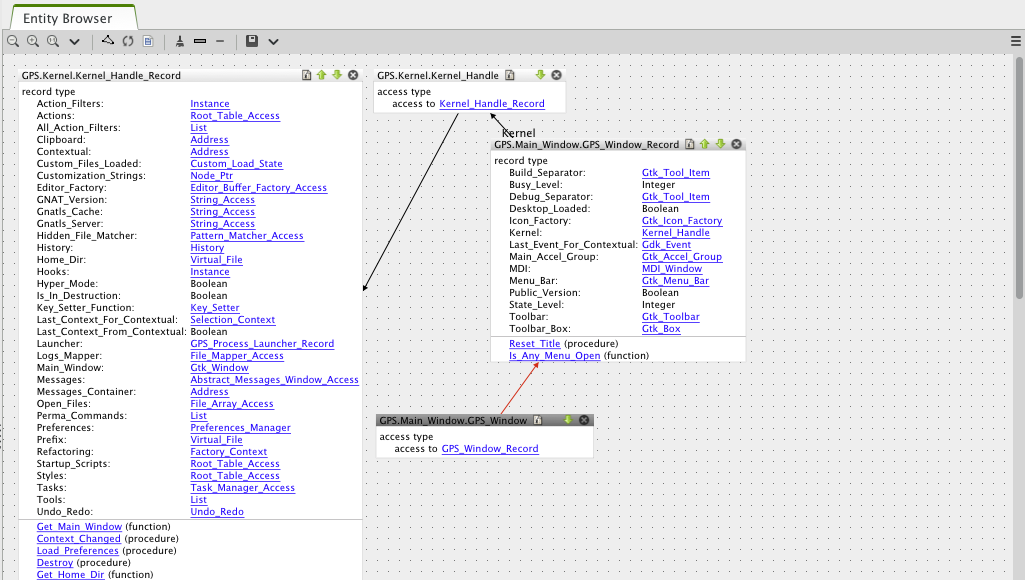
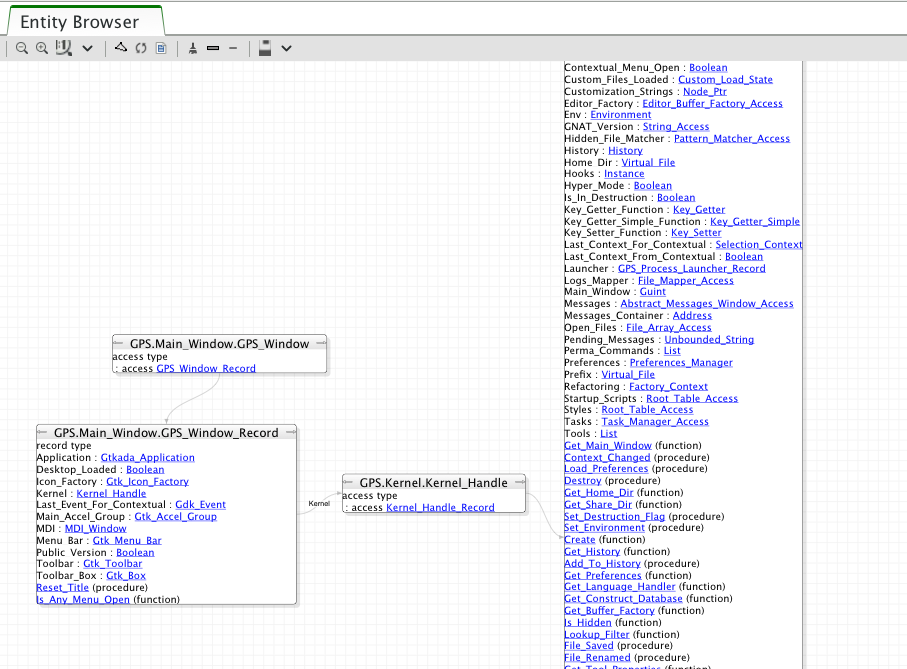
Update documentation and screenshots for browsers
N513-005

diff --git a/docs/users_guide/main_window.rst b/docs/users_guide/main_window.rst
@@ -96,14 +96,12 @@ Browsers provide the following additional capabilities:
   hide only a subset of links. Even when links are hidden, if you select a
   box, boxes linked to it are still highlighted.
 
-  Enable the :guilabel:`straight links` local settings menu in
-  browsers if you want to avoid diagonal links.
-
 * Scrolling
 
   When many boxes are displayed, the currently visible area may be too
   small for all of them.  When that happens, GPS adds scrollbars. You can
-  also scroll using the arrow keys.
+  also scroll using the arrow keys, or by dragging the background while
+  pressing the left mouse button.
 
 * Layout
 
@@ -119,17 +117,14 @@ Browsers provide the following additional capabilities:
 
 * Moving boxes
 
-  Move boxes with your mouse. Drag the box by clicking on its title
+  Move boxes with the mouse. Drag the box by clicking on its title
   bar. The box's links are still displayed during the move, so you can see
   whether it overlaps any other box. If you try to move the box outside the
   visible part of the browser, it is scrolled.
 
 * Selecting boxes
 
-  Select a box by clicking it.  Select multiple boxes by holding the
-  :kbd:`control` key while clicking each box.  Or create a rectangle using
-  your mouse; all boxes within the rectangle when the mouse is released are
-  selected.
+  Select a box by clicking it.
 
   The title bar of selected boxes is a different color.  All boxes linked
   to them also use a different title bar color and so do the links. This is
@@ -145,6 +140,9 @@ Browsers provide the following additional capabilities:
   :guilabel:`zoom in`, :guilabel:`zoom out`, and :guilabel:`zoom` buttons in
   the local toolbar to change the level and use the latter to explicitly
   select the level you want.
+
+  You can also press the :keys:`alt` key and use the mouse wheel to zoom in
+  or out.
 
   This capability is generally useful when many boxes are displayed in the
   browser to allow you to get an overview of the layout and the
@@ -1271,7 +1269,6 @@ Callgraph browser
 -----------------
 
 .. image:: callgraph.png
-.. image:: callgraph_orth.png
 
 The :guilabel:`Callgraph` browser graphically displays the relationship
 between subprogram callers and callees. A link between two items indicates
@@ -1629,7 +1626,7 @@ See also :ref:`browsers_features` for more capabilities of GPS browsers.
 The :guilabel:`Elaboration Circularities` browser
 =================================================
 
-.. image:: elaboration-graph.jpg
+.. image:: elaboration-graph.png
 
 GPS detects elaboration cycles reported by build processes and constructs a
 visual representation of elaboration dependencies in an

diff --git a/docs/users_guide/debugging.rst b/docs/users_guide/debugging.rst
@@ -451,7 +451,7 @@ debugger console.
 In each of these cases, a box is displayed in the data browser with the
 following information:
 
-.. image:: canvas.jpg
+.. image:: debugger-canvas.png
 
 * A title bar containing:
 
@@ -595,7 +595,7 @@ Most of the items are displayed using several colors, each conveying a
 special meaning.  The default meaning of each colors is as follows
 (the colors can be changed through the preferences dialog):
 
-.. image:: colors.jpg
+.. image:: debugger-canvas-colors.png
 
 *black*
 
